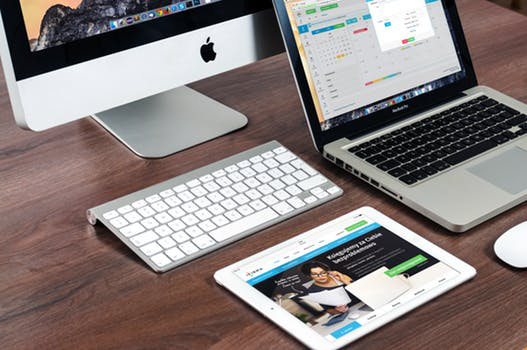
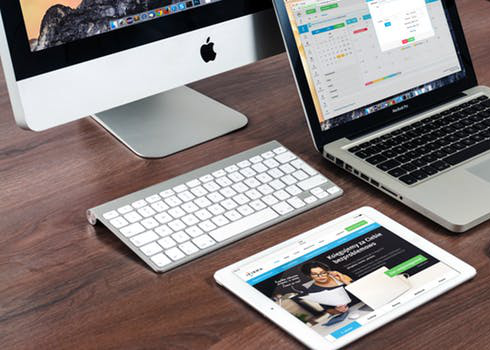
fixed image sizes. Updated contact page

diff --git a/contact.html b/contact.html
@@ -23,13 +23,15 @@
     <hr>
     <form>
         Name
-        <input type="text" name="Name" id="contact-name" value="John Smith">
+        <input type="text" name="Name" id="contact-name" placeholder="John Smith">
 
         Email
-        <input type="text" name="Email" id="contact-email" value="example@gmail.com">
+        <input type="text" name="Email" id="contact-email" placeholder="example@gmail.com">
 
         Message
         <textarea name="Message" id="contact-message"></textarea>
+
+        <input type="submit" value="Submit">
     </form>
 </div>
 
